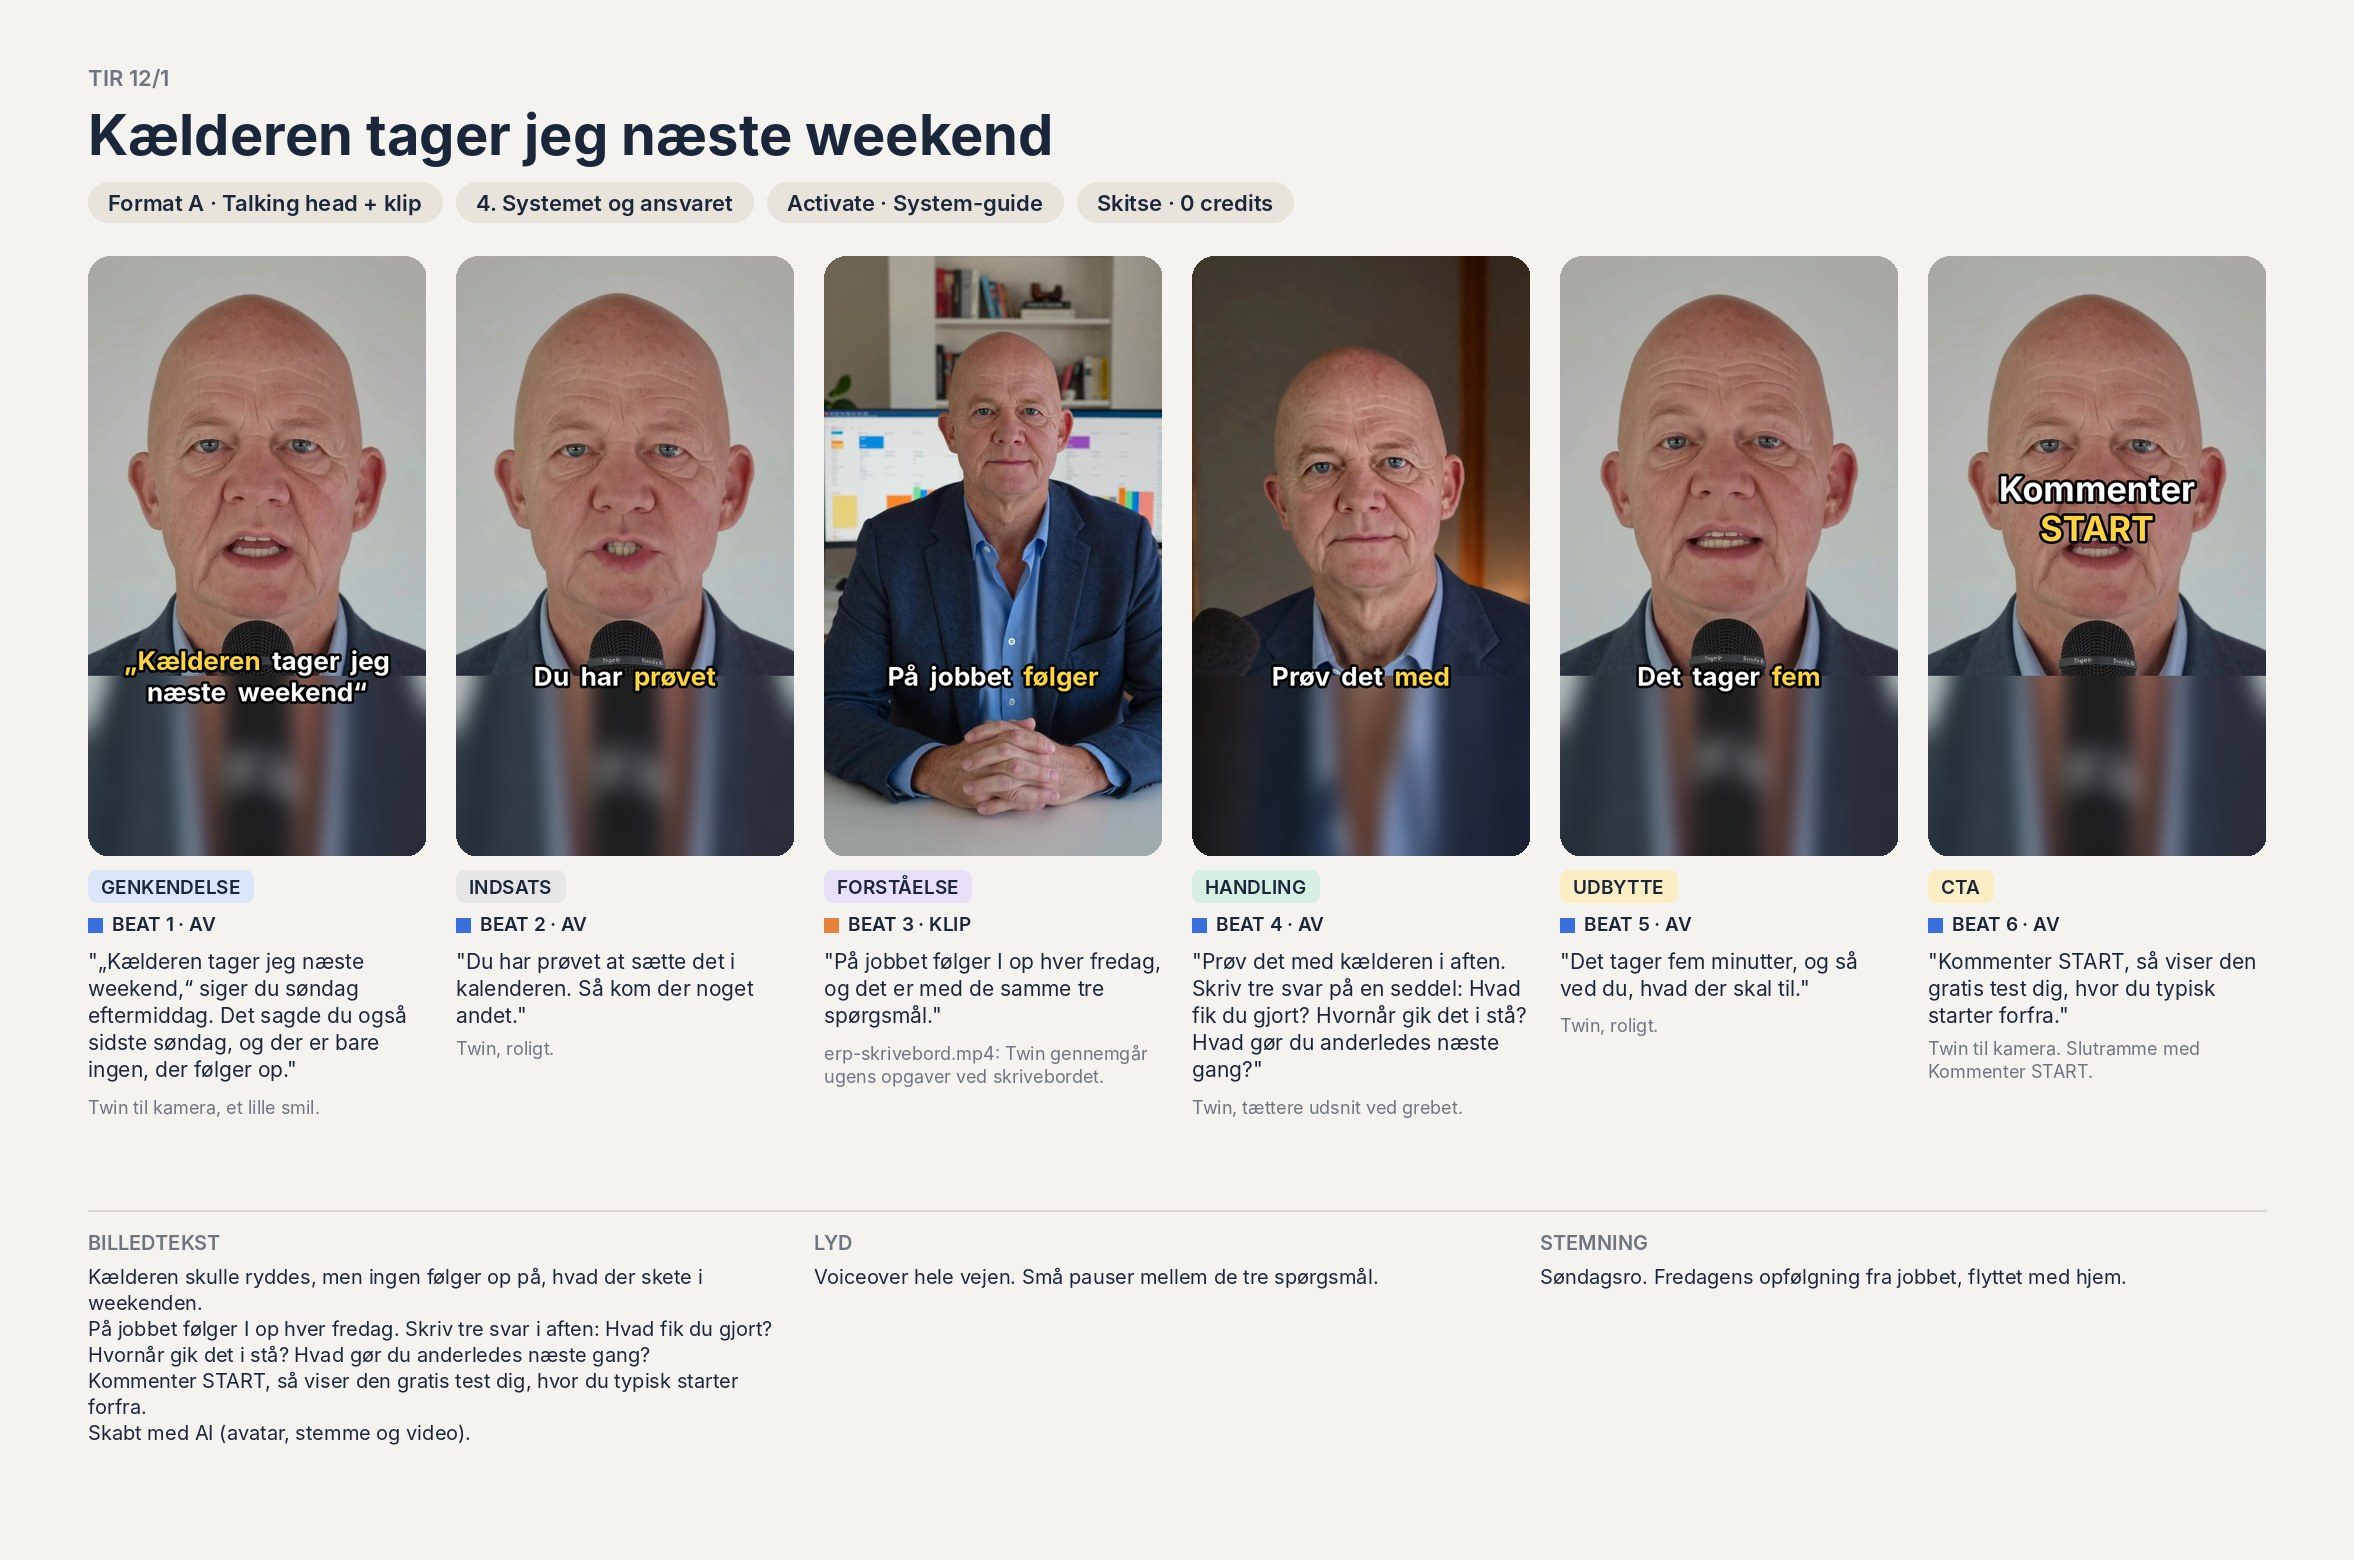
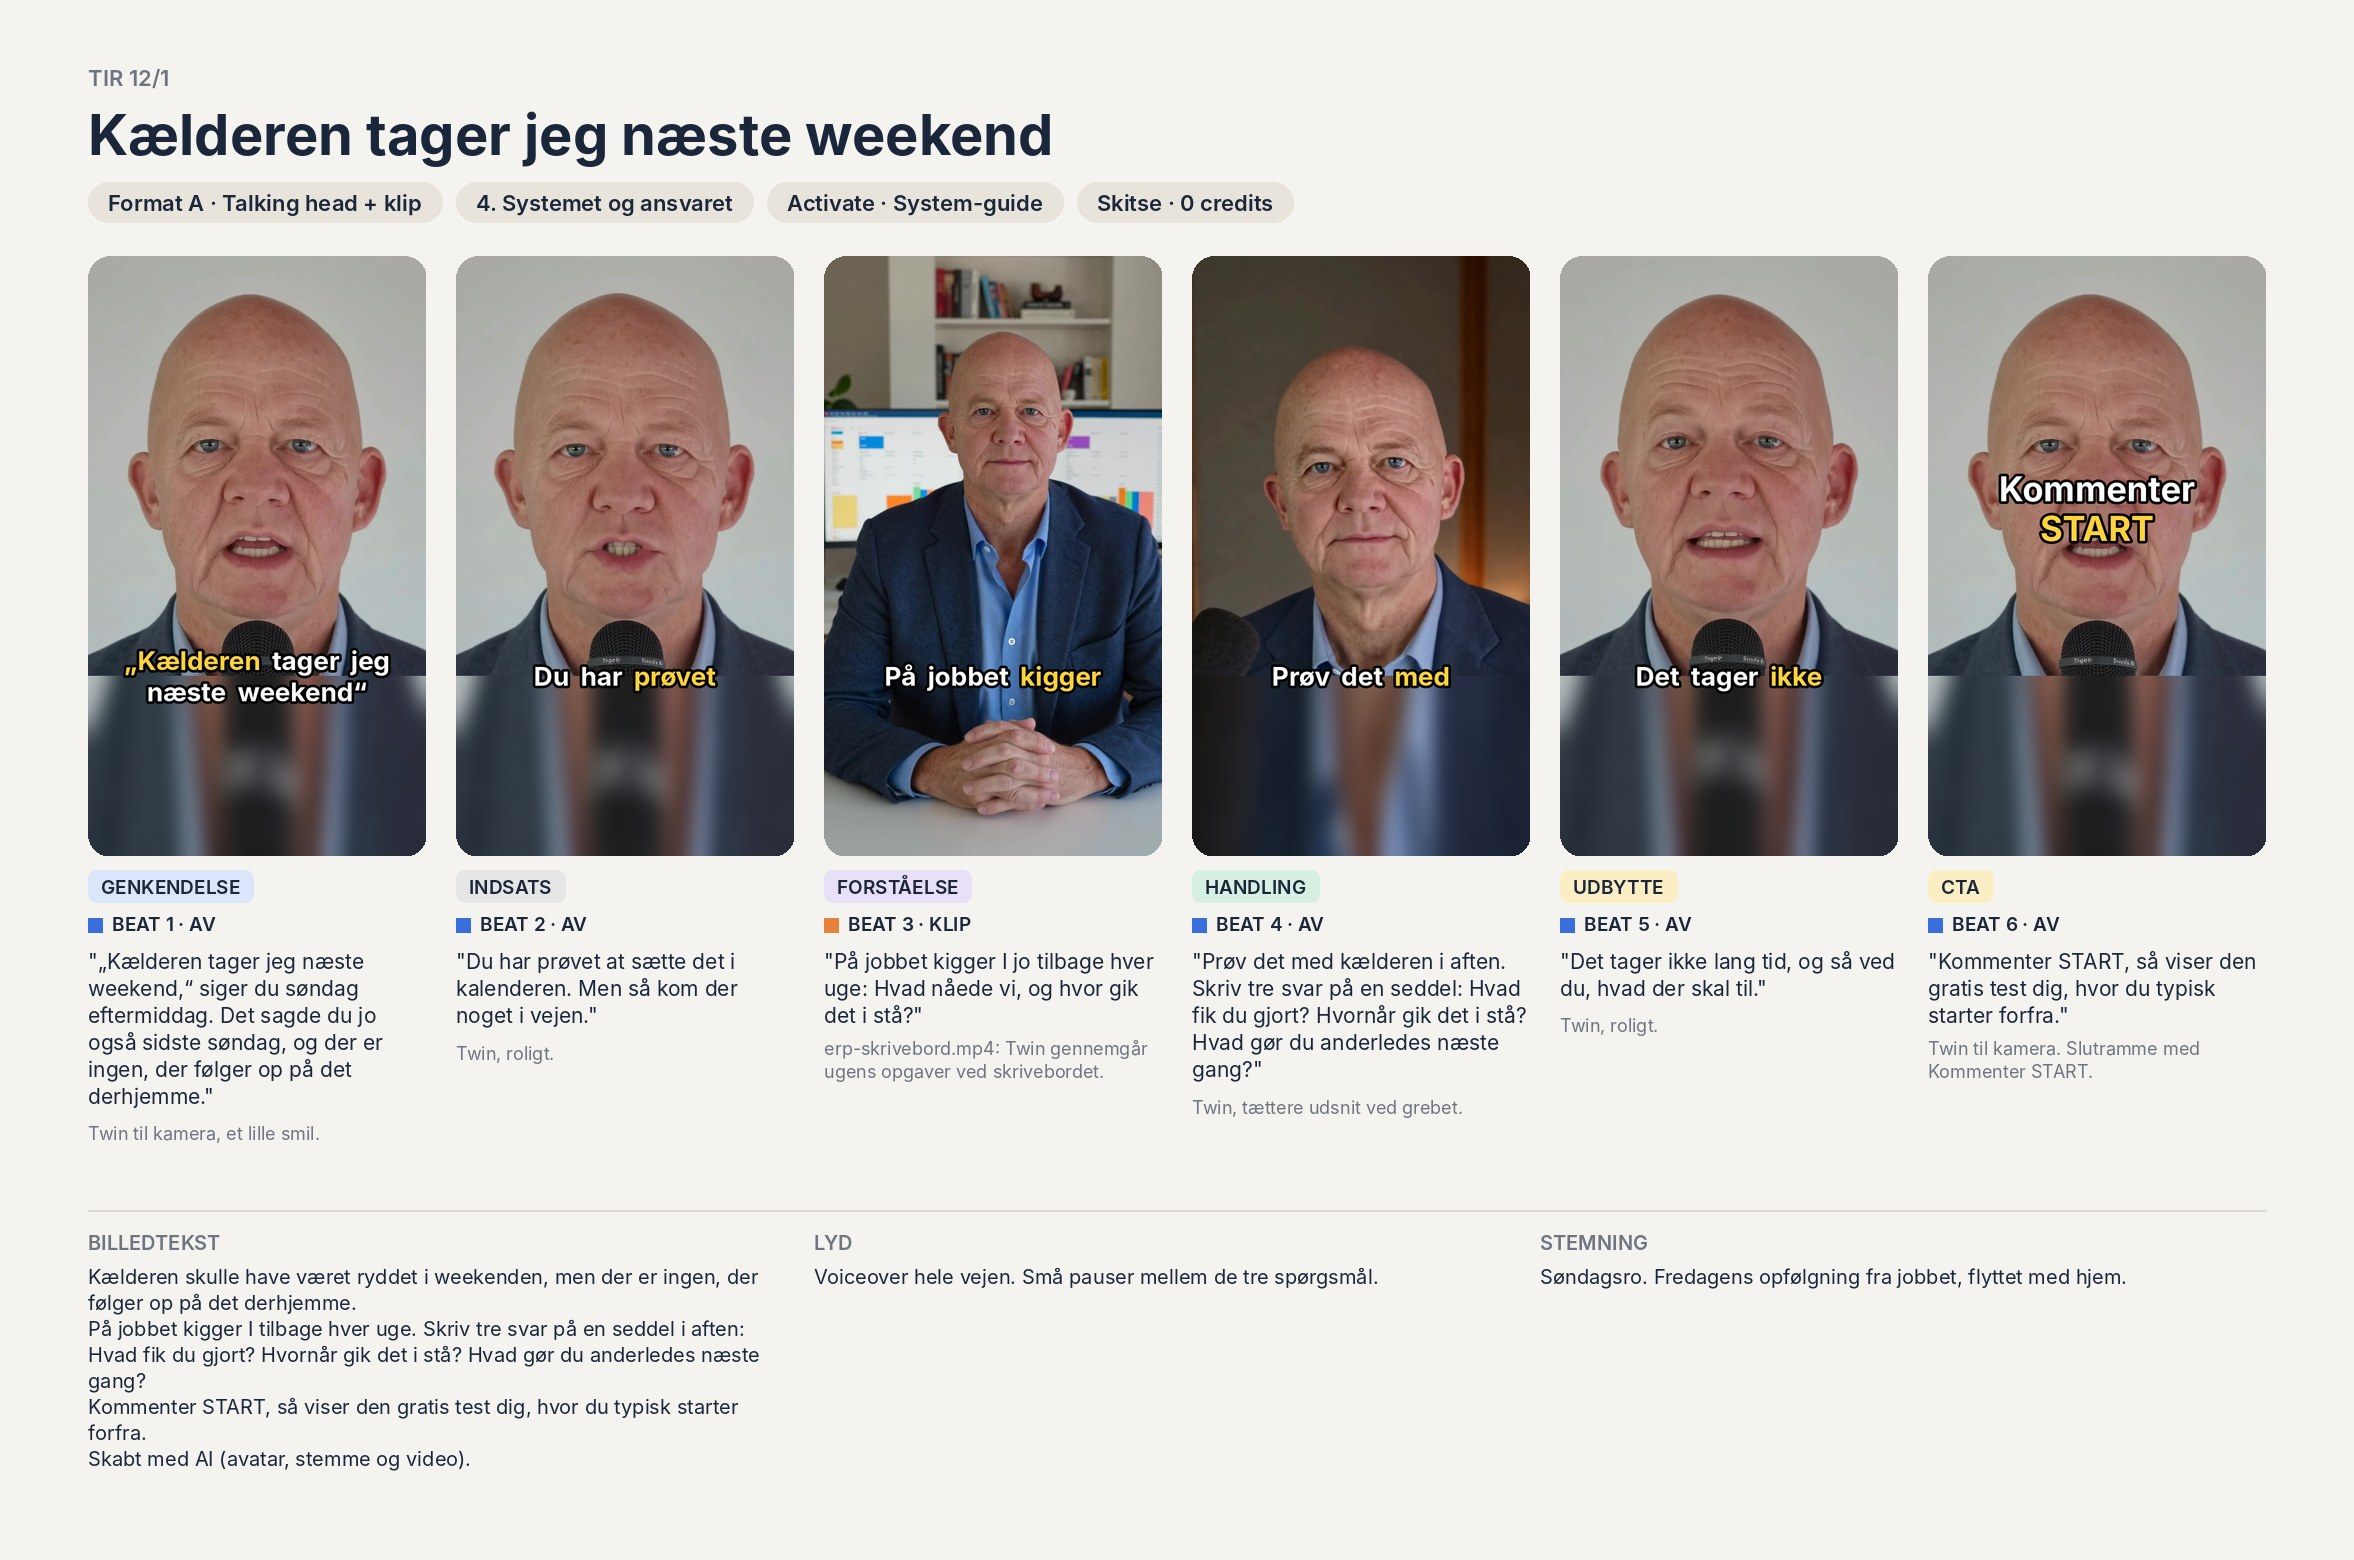
Led 4 i Hagbarths talte version; storyboard K11 (trin 4) og K12
Claude-Session: https://claude.ai/code/session_01DbWx9e49EPcNnfPaAMAUYt

diff --git a/tools/mekaniske_tjek.py b/tools/mekaniske_tjek.py
@@ -101,7 +101,10 @@ def tjek_k5(p, tale, sk, foerste, dele, linjer):
     sidste = foer_cta[-1] if foer_cta else ""
     m = re.search(MORAL, sidste.lower())
     res.append(("Ingen moralsk afrunding før CTA", not m, sidste[:60] if m else ""))
-    n_ikke = len(re.findall(r"\bikke\b", tale.lower()))
+    uden_led4 = tale
+    for l in LED4_HELT:
+        uden_led4 = uden_led4.replace(l, " ")  # Hagbarths egen talte led 4 tæller ikke med
+    n_ikke = len(re.findall(r"\bikke\b", uden_led4.lower()))
     res.append(("Højst to 'ikke' (ingen dobbelt ikke-X-kontrast)", n_ikke <= 2, f"{n_ikke}"))
     # Etiketter følger indholdet (kontrolleret, ikke deklareret)
     hv, it, f1 = p["hook_vinkel"], p["indholdstype"], foerste.lower()
@@ -131,8 +134,12 @@ def tjek_k5(p, tale, sk, foerste, dele, linjer):
 # måles, måles nu her; resten står i skribentens selvtjek (SOP trin 2b).
 FYLD = r"det har du vidst længe|det, der virker, er|det er det hele|sådan er det bare|det ved du godt"
 # Kørsel 8: delstrenge var ikke nok; skribenten omskrev rammen om dem. Hele sætningerne ordret.
-LED4 = ["30 år med at få systemer til at holde i virksomheder, også når konsulenten er kørt hjem.",
-        "Jeg har selv stået præcis dér: travl og leverende på jobbet, med resten sat på pause."]
+LED4 = [  # Talt version, Hagbarth 21/10-2026 kl. 23.48 (sprogreference afsnit 3b). Erstatter den skrevne ordlyd i video.
+        "Jeg har brugt mere end 30 år på at få systemer til at holde i virksomheder.",
+        "Jeg har givet det meste på arbejdet, og så har jeg ikke flyttet mig privat."]
+LED4_HELT = ("Jeg har brugt mere end 30 år på at få systemer til at holde i virksomheder. Også når konsulenten ikke er der. "
+             "Også når jeg ikke er der. Systemet skal jo bare virke.",
+             "Men jeg kender det fra mig selv. Jeg har givet det meste på arbejdet, og så har jeg ikke flyttet mig privat.")
 
 
 def tjek_k6(p, tale, emne, dele, saet):
